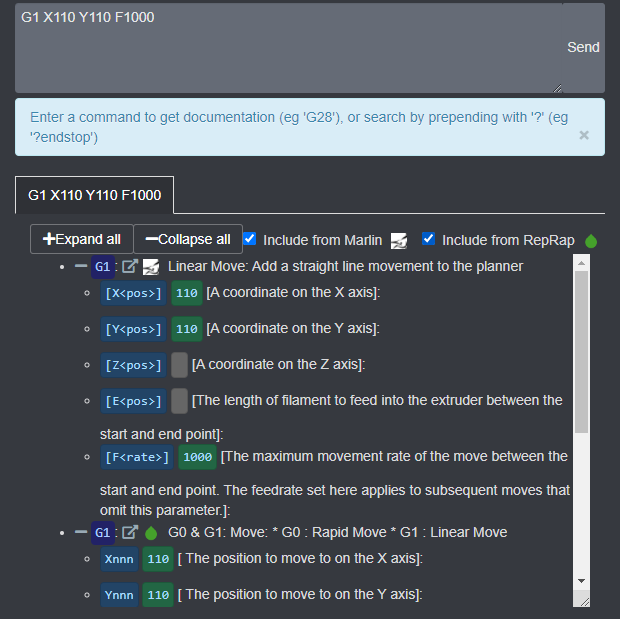
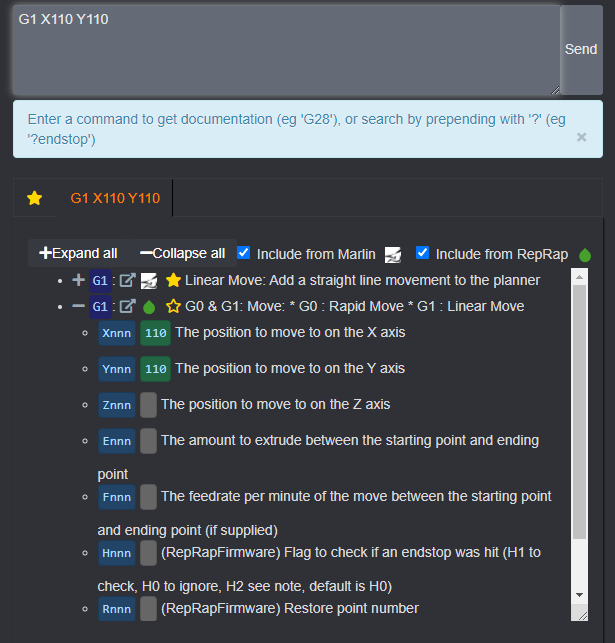
Bump version to v0.11.0

Changed region(s): [[0.0, 0.0, 0.9886, 0.9822]]

diff --git a/setup.py b/setup.py
@@ -14,7 +14,7 @@ plugin_package = "octoprint_marlingcodedocumentation"
 plugin_name = "Marlin GCode Documentation"
 
 # The plugin's version. Can be overwritten within OctoPrint's internal data via __plugin_version__ in the plugin module
-plugin_version = "0.10.3"
+plugin_version = "0.11.0"
 
 # The plugin's description. Can be overwritten within OctoPrint's internal data via __plugin_description__ in the plugin
 # module

diff --git a/extras/marlingcodedocumentation.md b/extras/marlingcodedocumentation.md
@@ -17,20 +17,25 @@ tags:
 - terminal
 - gcode
 - marlin
+- reprap
+- documentation
 
 screenshots:
 - url: /screenshot-example-command.png
   alt: Example of a command
   caption: Example of a command
-- url: /screenshot-example-multiple-commands.png
-  alt: Example of matching multiple commands
-  caption: Example of matching multiple commands
 - url: /screenshot-example-multiline-commands.png
   alt: Example of multiple commands in different lines
   caption: Example of multiple commands in different lines
 - url: /screenshot-example-search.png
   alt: Example of search
   caption: Example of search
+- url: /screenshot-example-favourites.png
+  alt: Example of favourites
+  caption: Example of favourites
+- url: /screenshot-example-sent.png
+  alt: Example of help for sent commands
+  caption: Example of help for sent commands
 
 featuredimage: /screenshot-example-command.png
 
@@ -48,5 +53,6 @@ Type '?' and some terms and you'll be shown commands that reference those terms.
 Features:
 * Commands from [Marlin](https://marlinfw.org/meta/gcode/) & [RepRap](https://reprap.org/wiki/G-code#G-commands) official documentations
 * Support for search by prepending `?`
+* Add and manage favourite commands
 * Support for [Multiline Terminal plugin](https://plugins.octoprint.org/plugins/multilineterminal/)
-
+* If you use [Terminal Messaging](https://github.com/jeffeb3/OctoPrint-TerminalMessaging), it allows you to explain sent commands

diff --git a/README.md b/README.md
@@ -1,13 +1,25 @@
 # MarlinGcodeDocumentation
+See [MarlinGcodeDocumentation](https://plugins.octoprint.org/plugins/marlingcodedocumentation/)
+on OctoPrint Plugin Repository
 
-It displays GCode documentation for Marlin in the terminal command line.
+It displays GCode documentation for Marlin & RepRap in the terminal command line.
 
 Type a command and you will get explanation for the command and the parameters.
 
+Type '?' and some terms and you'll be shown commands that reference those terms.
+
+Features:
+* Commands from [Marlin](https://marlinfw.org/meta/gcode/) & [RepRap](https://reprap.org/wiki/G-code#G-commands) official documentations
+* Support for search by prepending `?`
+* Add and manage favourite commands
+* Support for [Multiline Terminal plugin](https://plugins.octoprint.org/plugins/multilineterminal/)
+* If you use [Terminal Messaging](https://github.com/jeffeb3/OctoPrint-TerminalMessaging), it allows you to explain sent commands
+
 ![](/screenshot-example-command.png)
 ![](/screenshot-example-multiple-commands.png)
-![](/screenshot-example-multiline-commands.png)
 ![](/screenshot-example-search.png)
+![](/screenshot-example-favourites.png)
+![](/screenshot-example-sent.png)
 
 ## Setup
 
